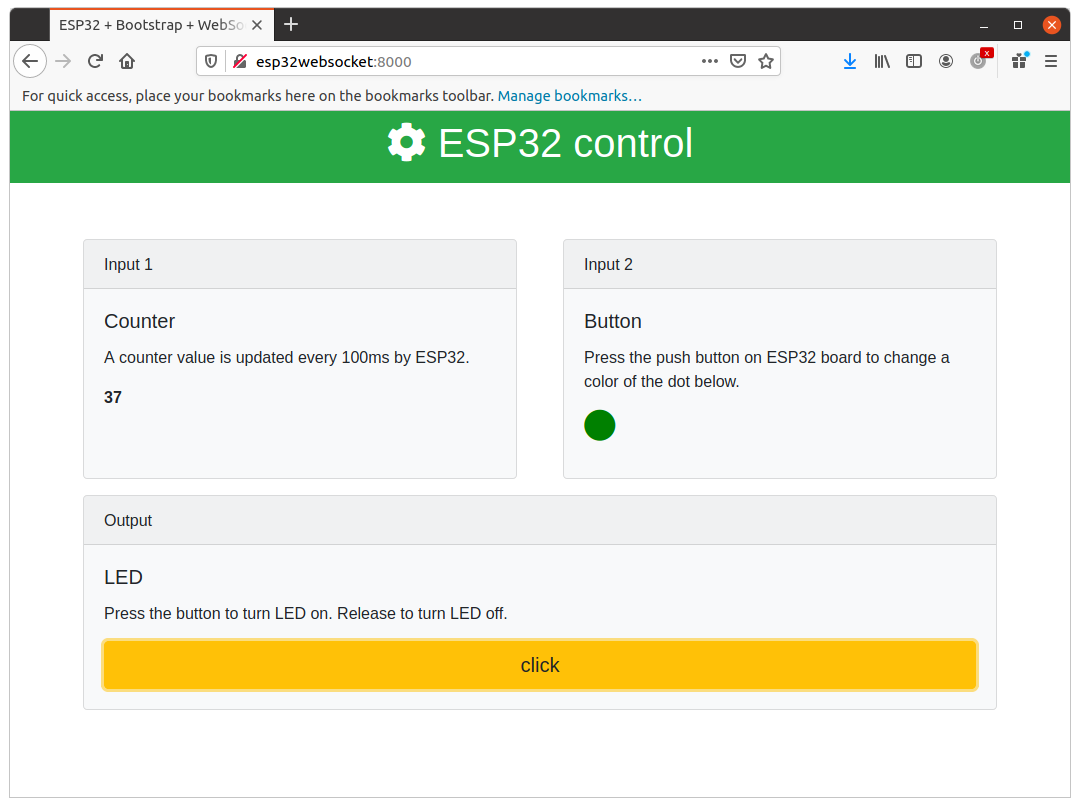
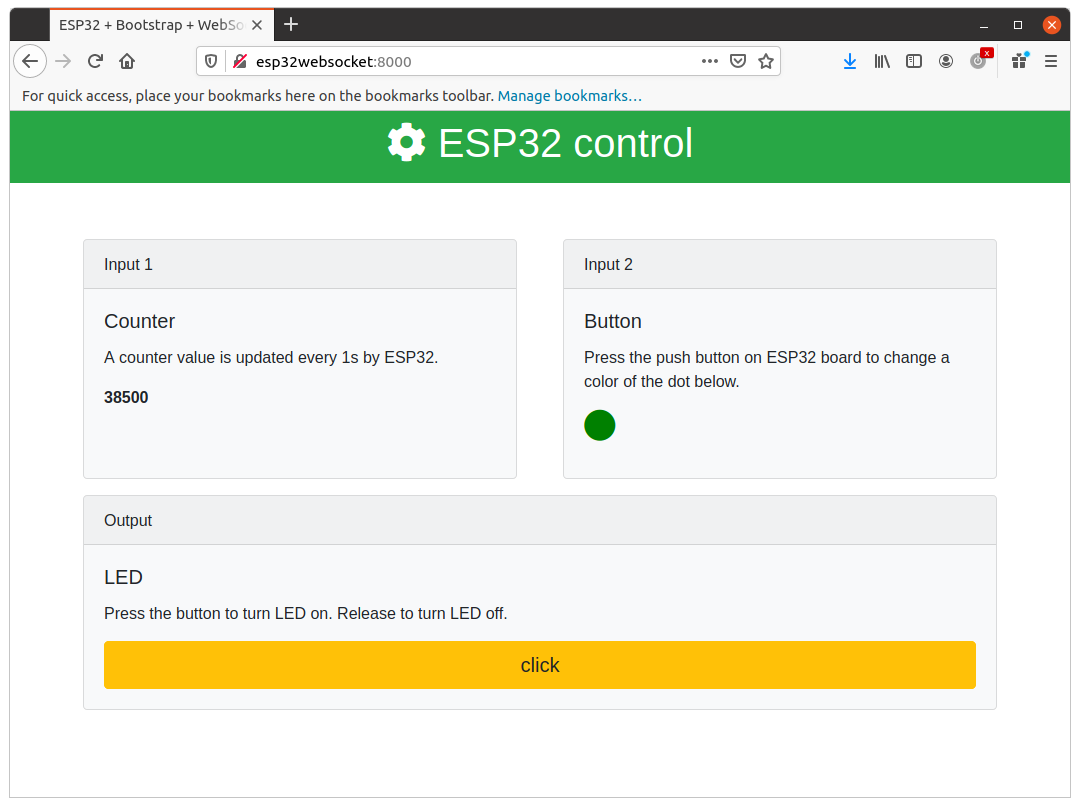
more documentation and small improvements

diff --git a/src/index.html b/src/index.html
@@ -33,15 +33,15 @@
     function WebSocketBegin() {
       if ("WebSocket" in window) {
         // Let us open a web socket
-        // ws = new WebSocket(
-        //   location.hostname.match(/\.husarnetusers\.com$/) ? "wss://" + location.hostname + "/__port_8000/ws" : "ws://" + location.hostname + ":8000/ws"
-        // );
+        ws = new WebSocket(
+          location.hostname.match(/\.husarnetusers\.com$/) ? "wss://" + location.hostname + "/__port_8000/ws" : "ws://" + location.hostname + ":8000/ws"
+        );
         // ws = new WebSocket(
         //   "wss://fc9434c5513c3543753124468f76fa507-8000.husarnetusers.com/ws"
         // );
-        ws = new WebSocket(
-          "ws://esp32websocket:8000/ws"
-        );
+        // ws = new WebSocket(
+        //   "ws://esp32websocket:8000/ws"
+        // );
 
         ws.onopen = function () {
           // Web Socket is connected
@@ -104,7 +104,7 @@
             <div class="card-body">
               <h5 class="card-title">Counter</h5>
               <p class="card-text">
-                A counter value is updated every 100ms by ESP32.
+                A counter value is updated every 1s by ESP32.
               </p>
               <p id="cnt" class="font-weight-bold">
                 0

diff --git a/README.md b/README.md
@@ -31,6 +31,7 @@ The template combines all useful technologies in one:
 A demo is really basic:
 
 - control a LED connected to ESP32 by using a button in web UI.
+- update cnt value in the web ui every 1s
 - ESP32 sends a button state to change a color of the dot in web UI.
 
 To run the project, open Visual Studio Code with Platformio extension and follow these steps:
